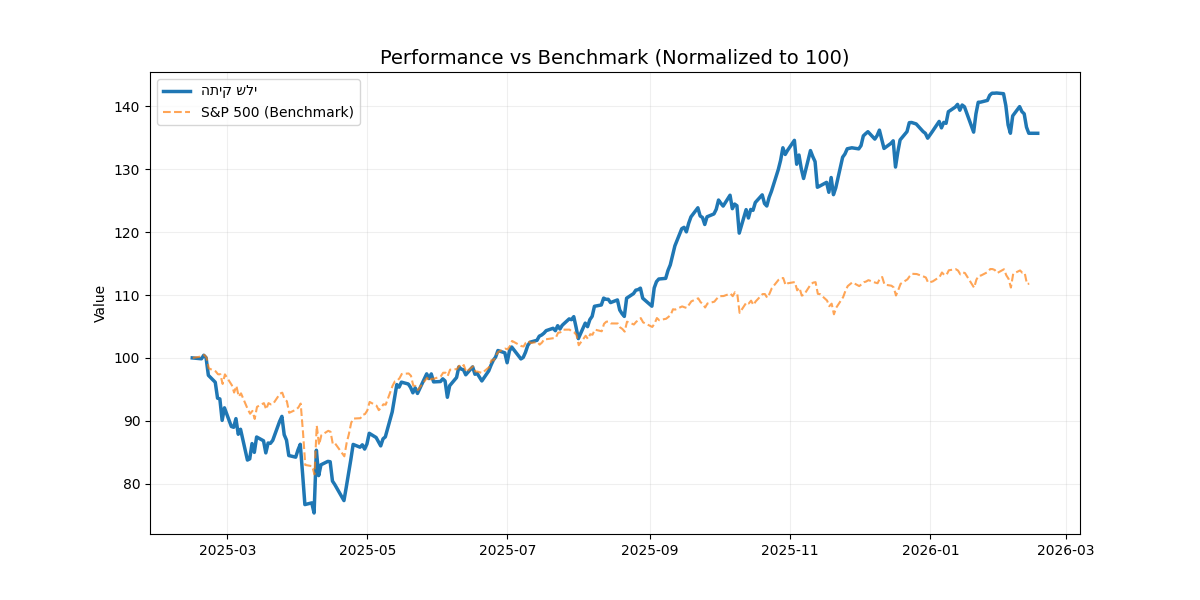
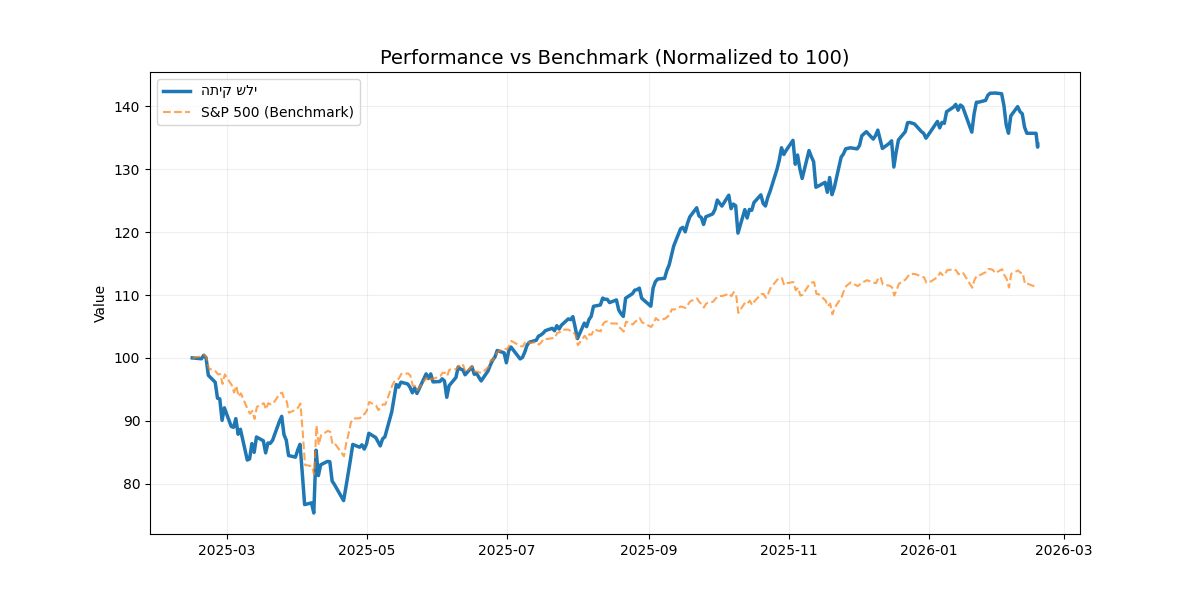
Data Update: Prices & Charts [skip ci]

diff --git a/README.md b/README.md
@@ -1,12 +1,12 @@
 # 📊 Portfolio Dashboard
-**עודכן ב:** 17/02/2026 16:53 | **שער דולר:** ₪3.100
+**עודכן ב:** 17/02/2026 17:59 | **שער דולר:** ₪3.100
 
 ## 💰 סיכום ביצועים כולל
-- **שווי תיק:** `₪174,256`
-- **תשואה מצטברת:** `+33.51%`
+- **שווי תיק:** `₪174,924`
+- **תשואה מצטברת:** `+34.02%`
 - **מקס' ירידה מהשיא (Drawdown):** `-24.97%`
-- **מניית הכוכב 🚀:** ASML (+86.7%)
-- **המאכזבת 📉:** VOO (+12.6%)
+- **מניית הכוכב 🚀:** ASML (+89.5%)
+- **המאכזבת 📉:** VOO (+12.7%)
 
 ## 📈 גרף ביצועים (מול S&P 500)
 ![Performance](./data_hub/portfolio_performance.png)
@@ -17,12 +17,12 @@
 ## 📊 פירוט אחזקות
 | מניה | כמות | שווי (₪) | משקל בתיק |
 | :--- | :--- | :--- | :--- |
-| VOO | 24 | ₪46,384 | 26.6% |
-| TSLA | 20 | ₪25,142 | 14.4% |
-| NVDA | 57 | ₪31,836 | 18.3% |
-| XOM | 8 | ₪3,604 | 2.1% |
-| GOOGL | 54 | ₪50,038 | 28.7% |
-| ASML | 4 | ₪17,252 | 9.9% |
+| VOO | 24 | ₪46,426 | 26.5% |
+| TSLA | 20 | ₪25,058 | 14.3% |
+| NVDA | 57 | ₪32,151 | 18.4% |
+| XOM | 8 | ₪3,621 | 2.1% |
+| GOOGL | 54 | ₪50,158 | 28.7% |
+| ASML | 4 | ₪17,511 | 10.0% |
 
 ---
 📂 *כל הנתונים והארכיון שמורים בתיקיית כתובת האתר לתצוגה:`data_hub`*
